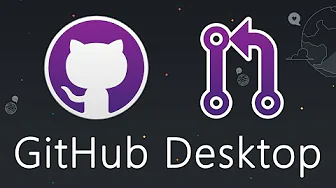
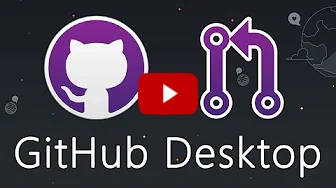
Unit Tests

Changed region(s): [[0.3869, 0.3723, 0.5952, 0.6383]]

diff --git a/src/Programming/Unit_Testing.md b/src/Programming/Unit_Testing.md
@@ -1,0 +1,34 @@
+# Unit Testing
+
+A unit test is a way of testing a unit - *the smallest piece of code* that can be logically isolated in a system. 
+In most programming languages, that is a function, a subroutine, a method or property.
+The isolated part of the definition is important. </br>
+
+It is a way to automatically test if the output of your code is the expected one.
+
+## Why and What Unit Testing
+
+Now you think: *Why should I set up a Unit Test. It's extra effort and besides I can just press play and test it* </br>
+
+There are many advantages to Unit testing.
+- Allows you to test parts of the code that might not be playable for some reason.
+- Allows you to test the functions in a void, meaning that: 
+	- in a chain of functions you can find easilly where the problem lies.
+	- you do not depend on other functions.
+- Once set up you can quickly test with different inputs.
+
+This **does not mean** that you stop testing your work in-game.
+
+Now you think: *What should I test, everything?*
+
+**This is a difficult question.** </br>
+There are thing that you should test, that you shouldn't test and things you cannot test.
+The best thing you can do is think critically and experiment yourself.
+
+## Unit Testing in Unity
+
+Unity has it's own libraries and tools to help set up all the tests you need.
+For more info [*Click Here*](https://docs.unity3d.com/Manual/testing-editortestsrunner.html)
+
+Also here's a video:
+[![How to use Unit Testing with Unity](../images/UnitTest.jpg)](https://www.youtube.com/watch?v=PDYB32qAsLU&ab_channel=InfallibleCode "How to use Unit Testing with Unity")

diff --git a/src/SUMMARY.md b/src/SUMMARY.md
@@ -17,6 +17,7 @@
 
 # Full Game
 - [Full Game info](./Programming/FullGame.md)
+	- [Unit Testing](./Programming/Unit_Testing.md)
 - [API Documentation](./Programming/api/index.html)
 
 
